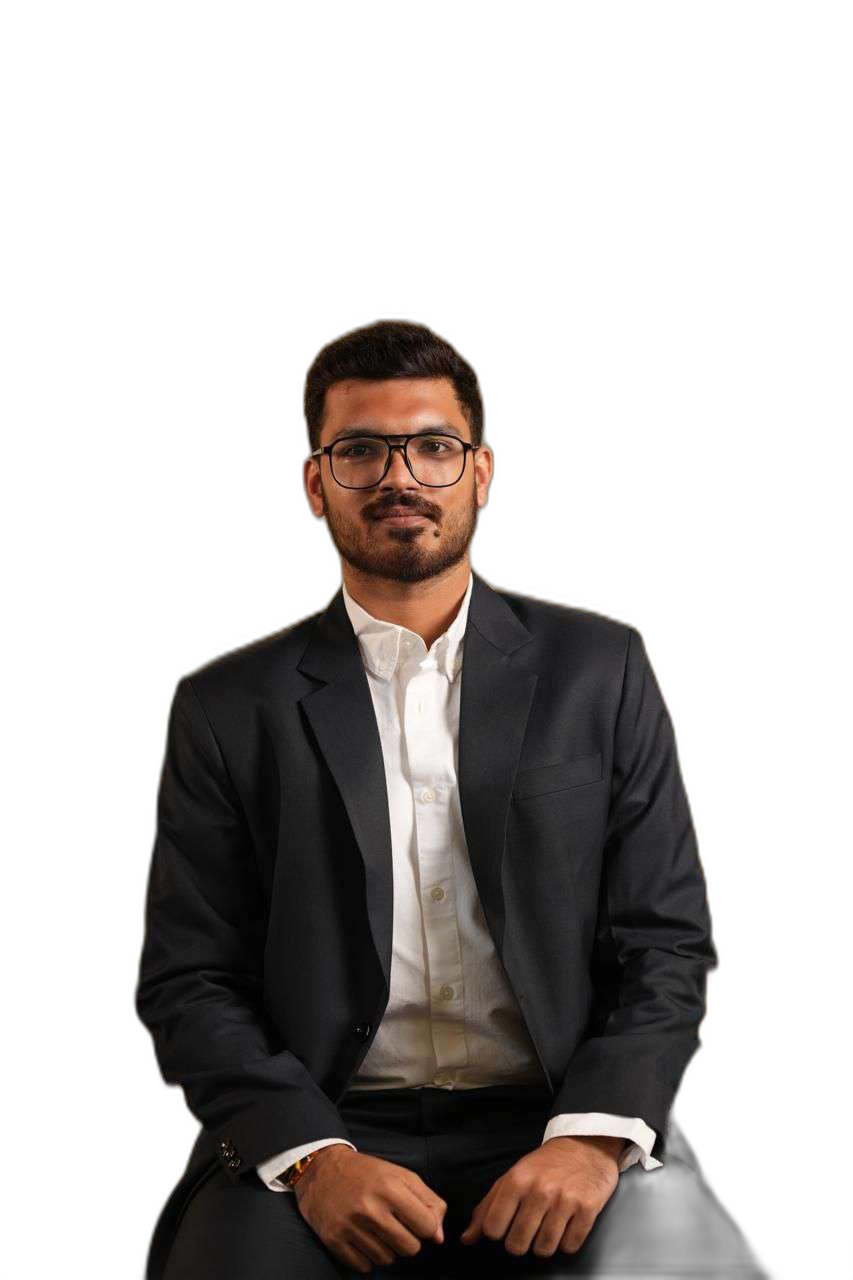
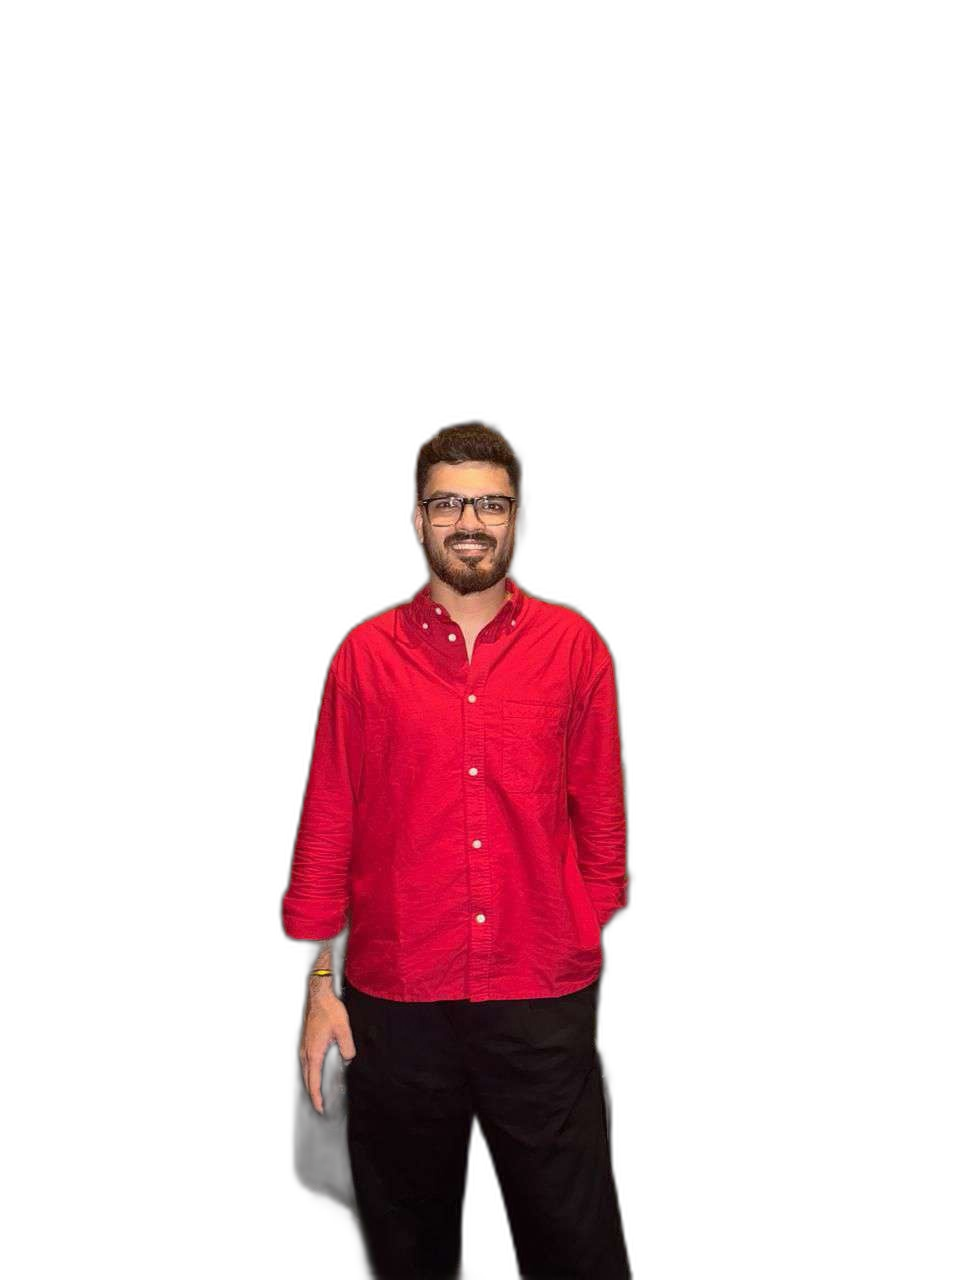
Replace profile photo with new image (background removed)
- Extracted new photo from uploaded PDF
- Removed background using rembg (81% transparent pixels)
- Adjusted hero photo container height for full-body standing shot

diff --git a/css/style.css b/css/style.css
@@ -125,8 +125,8 @@ nav {
 .hero-photo-wrap {
   position: relative;
   flex-shrink: 0;
-  width: 320px;
-  height: 400px;
+  width: 300px;
+  height: 460px;
   z-index: 1;
 }
 
@@ -151,7 +151,7 @@ nav {
   width: 100%;
   height: 100%;
   object-fit: cover;
-  object-position: top center;
+  object-position: center top;
   border-radius: 50% 40% 50% 40%;
   filter: drop-shadow(0 12px 40px rgba(155,114,245,0.3));
   animation: float 5s ease-in-out infinite;
@@ -625,7 +625,7 @@ footer span { color: var(--pink-mid); }
     text-align: center;
   }
 
-  .hero-photo-wrap { width: 220px; height: 275px; margin: 0 auto; }
+  .hero-photo-wrap { width: 200px; height: 305px; margin: 0 auto; }
   .hero-actions { align-items: center; }
 }
 
